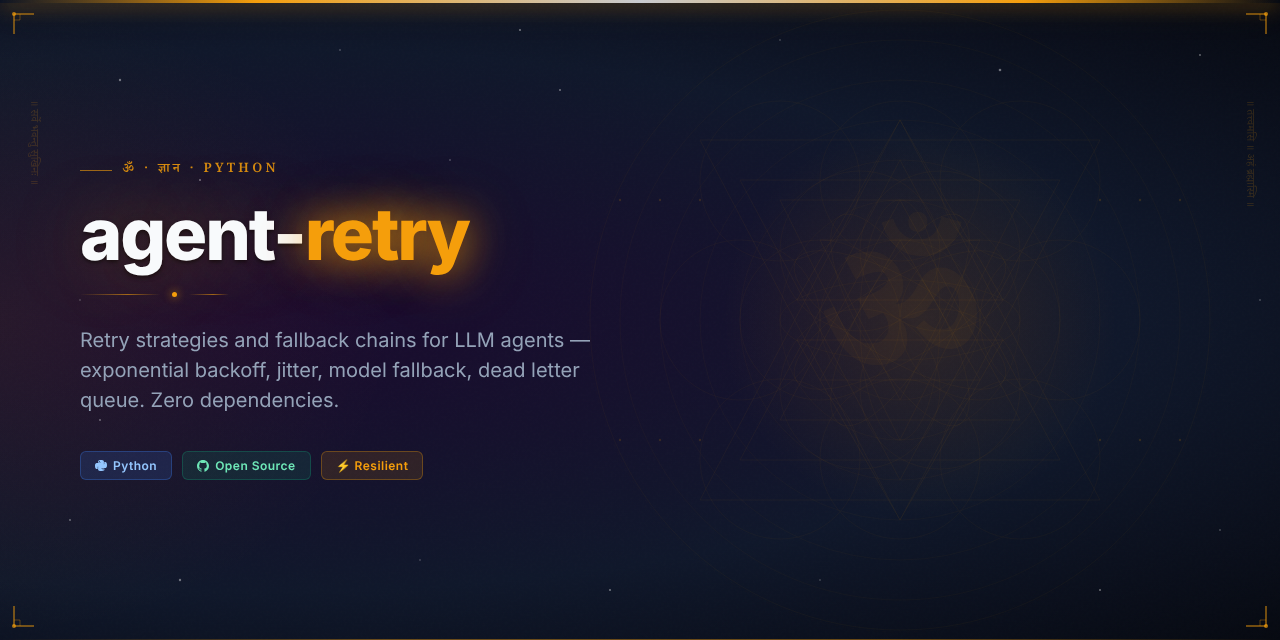
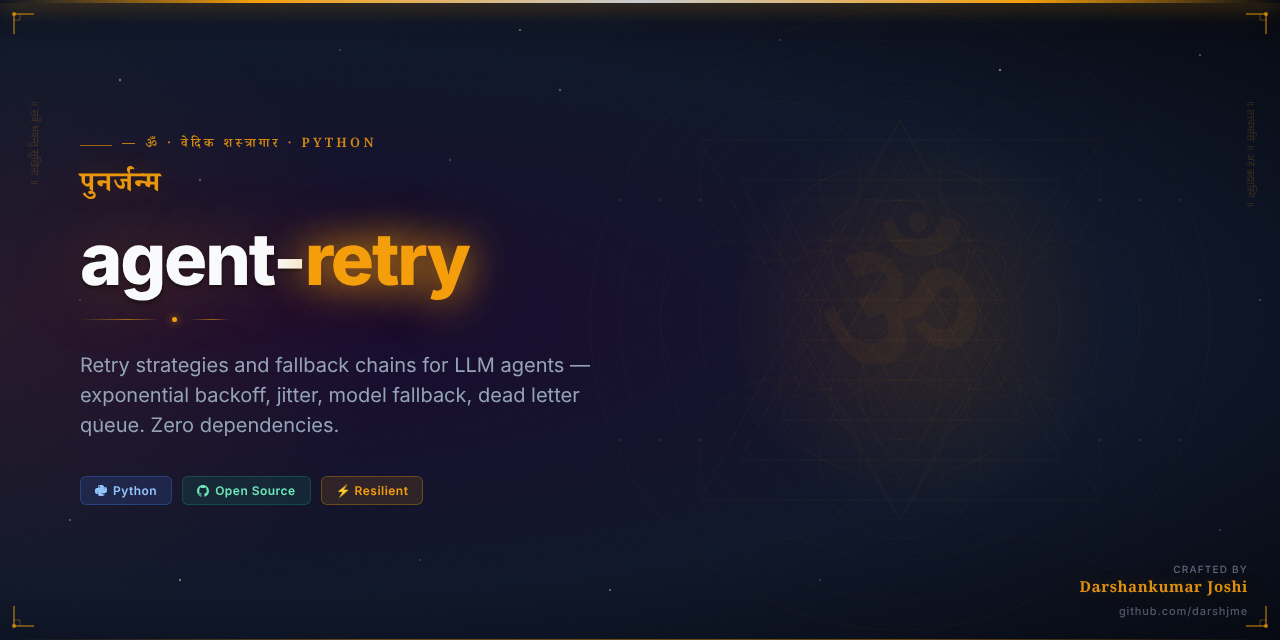
feat: add Vedic Arsenal hero image and updated README
Part of darshjme/arsenal — 100 production-grade Python libraries for LLM agents.
Vedic branding: ancient philosophy meets modern AI engineering.

diff --git a/README.md b/README.md
@@ -1,10 +1,12 @@
 <div align="center">
 
-<img src="assets/agent-retry-hero.png" alt="agent-retry — Vedic Arsenal" width="100%" />
+<img src="assets/agent-retry-hero.png" alt="agent-retry — Vedic Arsenal by Darshankumar Joshi" width="100%" />
 
 # ⚡ agent-retry
 
-### *पुनर्जन्म* — Punarjanma — the eternal cycle of retry until moksha
+<h3><em>पुनर्जन्म</em></h3>
+
+> *Punarjanma — the eternal cycle of retry until moksha*
 
 **Retry strategies and fallback chains for LLM agents — exponential backoff, jitter, model fallback, dead letter queue. Zero dependencies.**
 
@@ -39,6 +41,21 @@ Or clone directly:
 git clone https://github.com/darshjme/agent-retry.git
 cd agent-retry
 pip install -e .
+```
+
+## How It Works
+
+```mermaid
+flowchart LR
+    A[LLM Call] --> B{Success?}
+    B -- Yes --> C[Return Result]
+    B -- No --> D[agent-retry]
+    D --> E{Attempts < Max?}
+    E -- Yes --> F[Exponential Backoff]
+    F --> A
+    E -- No --> G[Dead Letter Queue]
+    style D fill:#6b21a8,color:#fff
+    style F fill:#1a0a2e,color:#9b59b6
 ```
 
 ## Quick Start
@@ -90,7 +107,7 @@ MIT — use freely, build freely.
 
 <div align="center">
 
-**Built with ⚡ by [Darshankumar Joshi](https://github.com/darshjme)**
+**Built with ⚡ by [Darshankumar Joshi](https://github.com/darshjme)** · [@thedarshanjoshi](https://twitter.com/thedarshanjoshi)
 
 *"कर्मण्येवाधिकारस्ते मा फलेषु कदाचन"*
 *Your right is to action alone, never to the fruits thereof.*
